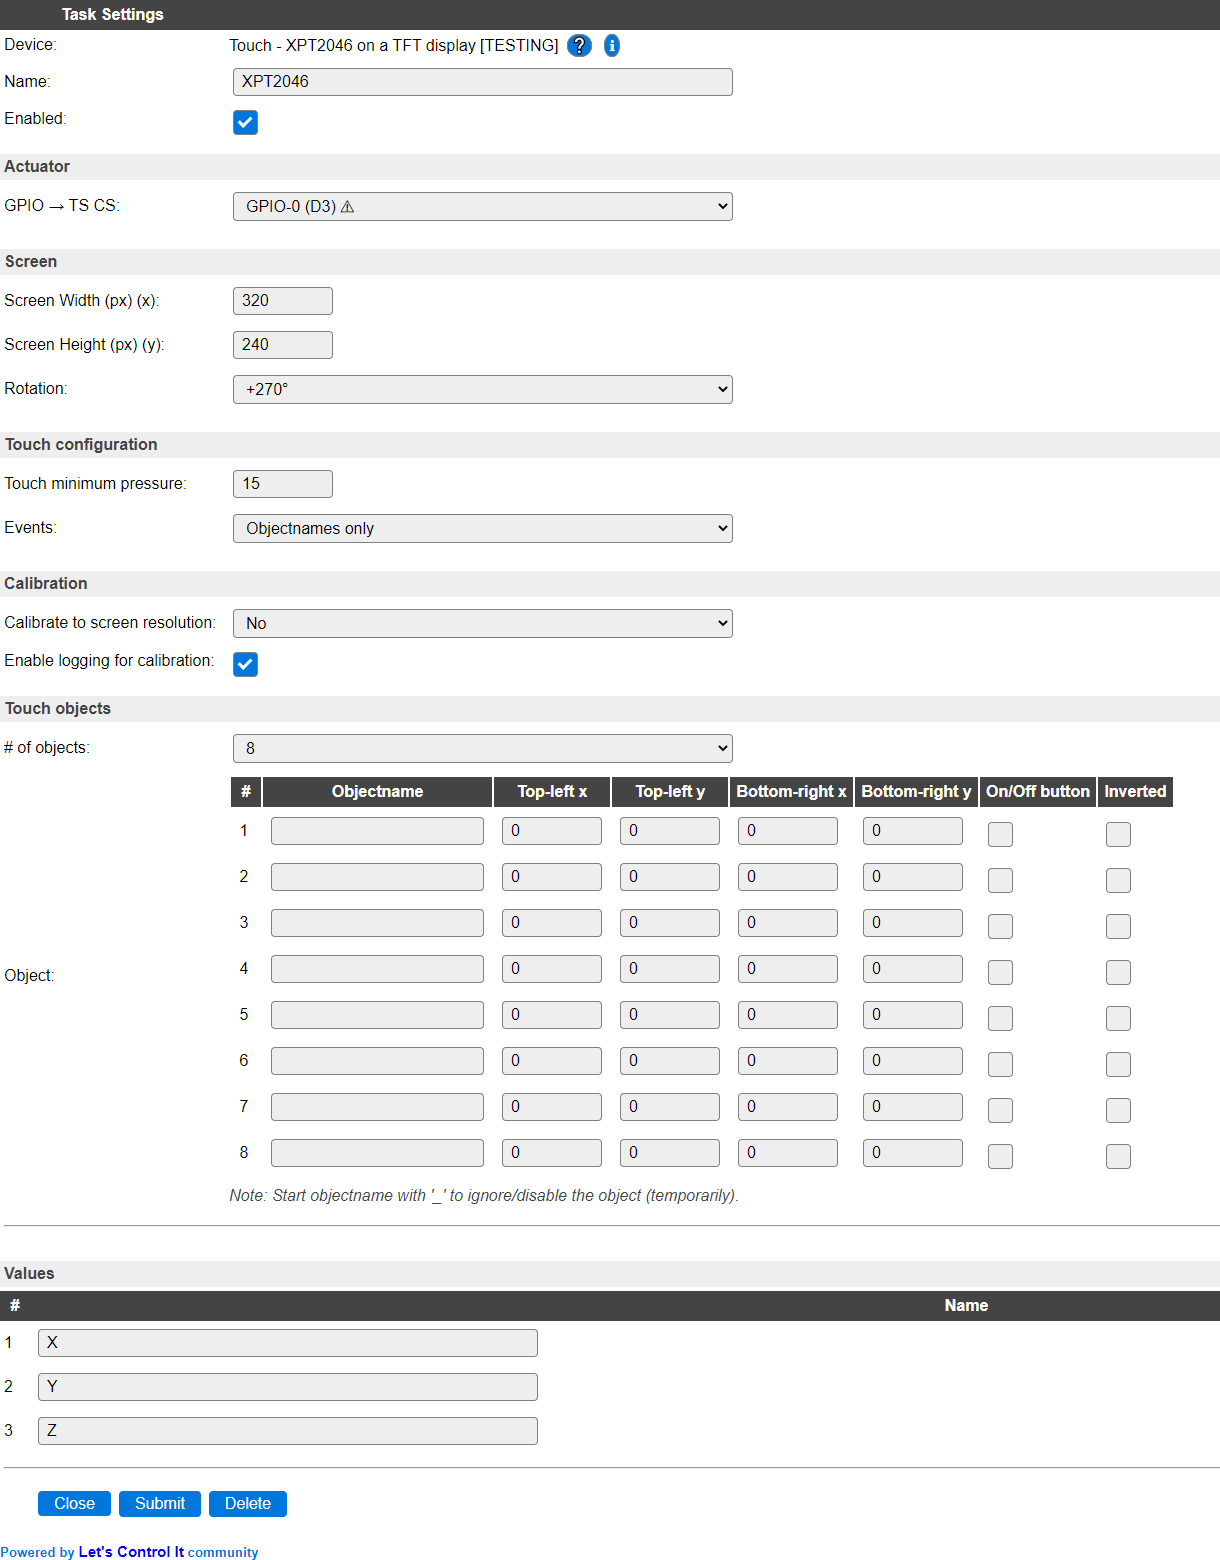
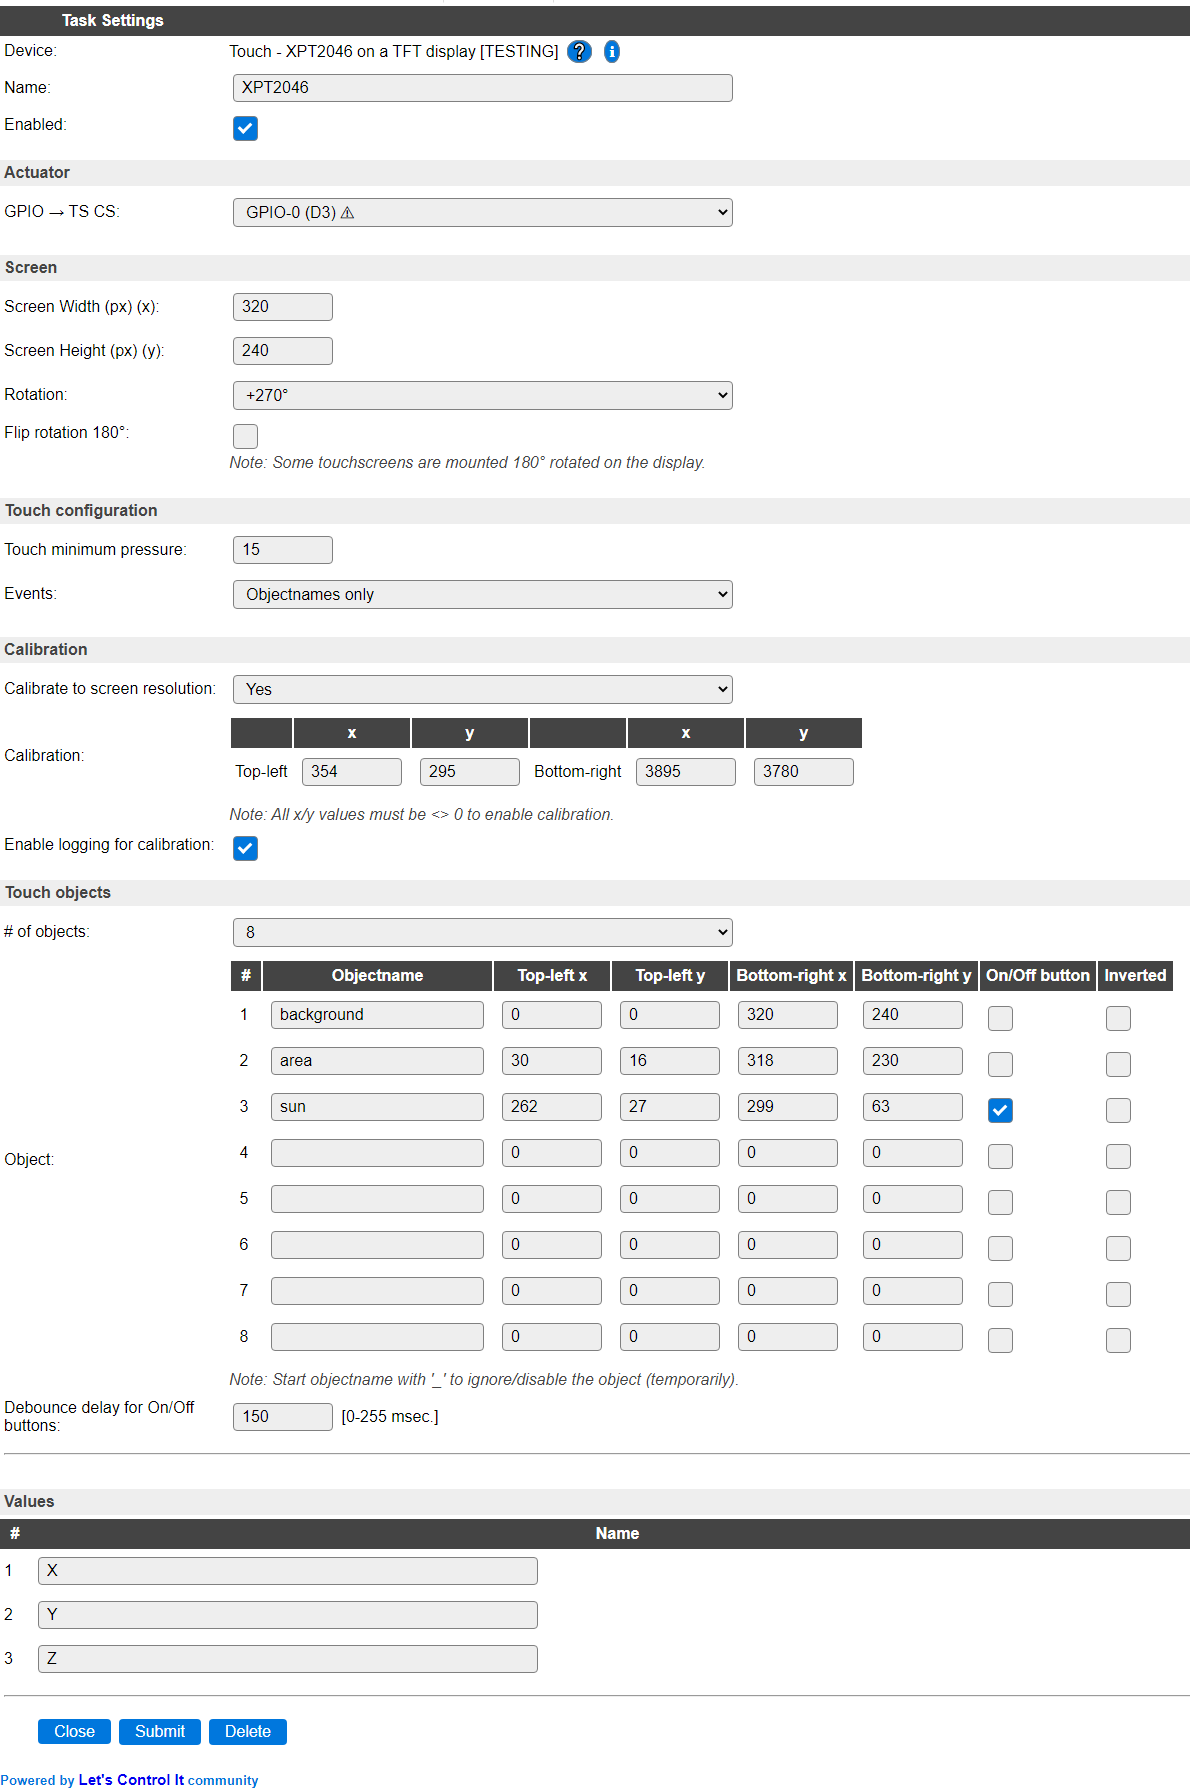
[P099] Improve string allocation, add options, source formatting - Source formatting and String allocation using reserve() for longer strings - Add option and command for flipping the rotation setting - Improved rotation setting to conform to ILI9341 setting - Add option for setting the debounce del

Changed region(s): [[0.0, 0.0, 1.0, 1.0], [0.0, 0.6154, 0.0311, 0.6769]]

diff --git a/src/src/PluginStructs/P099_data_struct.cpp b/src/src/PluginStructs/P099_data_struct.cpp
@@ -34,28 +34,31 @@ void P099_data_struct::reset() {
  * Initialize data and set up the touchscreen.
  */
 bool P099_data_struct::init(taskIndex_t taskIndex,
-                            uint8_t     _cs,
-                            uint8_t     _rotation,
-                            uint8_t     _z_treshold,
-                            bool        _send_xy,
-                            bool        _send_z,
-                            bool        _useCalibration,
-                            uint16_t    _ts_x_res,
-                            uint16_t    _ts_y_res) {
+                            uint8_t     cs,
+                            uint8_t     rotation,
+                            bool        flipped,
+                            uint8_t     z_treshold,
+                            bool        send_xy,
+                            bool        send_z,
+                            bool        useCalibration,
+                            uint16_t    ts_x_res,
+                            uint16_t    ts_y_res) {
   reset();
 
-  address_ts_cs  = _cs;
-  z_treshold     = _z_treshold;
-  rotation       = _rotation;
-  send_xy        = _send_xy;
-  send_z         = _send_z;
-  useCalibration = _useCalibration;
-  ts_x_res       = _ts_x_res;
-  ts_y_res       = _ts_y_res;
+  _address_ts_cs  = cs;
+  _z_treshold     = z_treshold;
+  _rotation       = rotation;
+  _flipped        = flipped;
+  _send_xy        = send_xy;
+  _send_z         = send_z;
+  _useCalibration = useCalibration;
+  _ts_x_res       = ts_x_res;
+  _ts_y_res       = ts_y_res;
 
-  touchscreen = new (std::nothrow) XPT2046_Touchscreen(address_ts_cs);
+  touchscreen = new (std::nothrow) XPT2046_Touchscreen(_address_ts_cs);
   if (touchscreen != nullptr) {
-    touchscreen->setRotation(rotation);
+    touchscreen->setRotation(_rotation);
+    touchscreen->setRotationFlipped(_flipped);
     touchscreen->begin();
     loadTouchObjects(taskIndex);
 #ifdef PLUGIN_099_DEBUG
@@ -130,10 +133,24 @@ void P099_data_struct::setRotation(uint8_t n) {
 }
 
 /**
+ * Only set rotationFlipped if the touchscreen is initialized.
+ */
+void P099_data_struct::setRotationFlipped(bool flipped) {
+  if (isInitialized()) {
+    touchscreen->setRotationFlipped(flipped);
+#ifdef PLUGIN_099_DEBUG
+    String log = F("P099 DEBUG RotationFlipped set: ");
+    log += flipped;
+    addLog(LOG_LEVEL_INFO, log);
+#endif // PLUGIN_099_DEBUG
+  }
+}
+
+/**
  * Determine if calibration is enabled and usable.
  */
 bool P099_data_struct::isCalibrationActive() {
-  return    useCalibration
+  return    _useCalibration
          && StoredSettings.Calibration.top_left.x > 0
          && StoredSettings.Calibration.top_left.y > 0
          && StoredSettings.Calibration.bottom_right.x > 0
@@ -252,7 +269,7 @@ void P099_data_struct::scaleRawToCalibrated(uint16_t &x, uint16_t &y) {
       if (_x > StoredSettings.Calibration.bottom_right.x) {
         _x = StoredSettings.Calibration.bottom_right.x;
       }
-      float x_fact = (StoredSettings.Calibration.bottom_right.x - StoredSettings.Calibration.top_left.x) / ts_x_res;
+      float x_fact = (StoredSettings.Calibration.bottom_right.x - StoredSettings.Calibration.top_left.x) / _ts_x_res;
       x = int((_x * 1.0f) / x_fact);
     }
     uint16_t _y = y - StoredSettings.Calibration.top_left.y;
@@ -262,7 +279,7 @@ void P099_data_struct::scaleRawToCalibrated(uint16_t &x, uint16_t &y) {
       if (_y > StoredSettings.Calibration.bottom_right.y) {
         _y = StoredSettings.Calibration.bottom_right.y;
       }
-      float y_fact = (StoredSettings.Calibration.bottom_right.y - StoredSettings.Calibration.top_left.y) / ts_y_res;
+      float y_fact = (StoredSettings.Calibration.bottom_right.y - StoredSettings.Calibration.top_left.y) / _ts_y_res;
       y = int((_y * 1.0f) / y_fact);
     }
   }

diff --git a/src/src/PluginStructs/P099_data_struct.h b/src/src/PluginStructs/P099_data_struct.h
@@ -31,19 +31,21 @@ struct P099_data_struct : public PluginTaskData_base
 
   void      reset();
   bool init(taskIndex_t taskIndex,
-            uint8_t  _cs,
-            uint8_t  _rotation,
-            uint8_t  _z_treshold,
-            bool     _send_xy,
-            bool     _send_z,
-            bool     _useCalibration,
-            uint16_t _ts_x_res,
-            uint16_t _ts_y_res);
+            uint8_t     cs,
+            uint8_t     rotation,
+            bool        flipped,
+            uint8_t     z_treshold,
+            bool        send_xy,
+            bool        send_z,
+            bool        useCalibration,
+            uint16_t    ts_x_res,
+            uint16_t    ts_y_res);
   bool isInitialized() const;
   void loadTouchObjects(taskIndex_t taskIndex);
   bool touched();
 	void readData(uint16_t *x, uint16_t *y, uint8_t *z);
   void setRotation(uint8_t n);
+  void setRotationFlipped(bool _flipped);
   bool isCalibrationActive();
   bool isValidAndTouchedTouchObject(uint16_t x, uint16_t y, String &selectedObjectName, int &selectedObjectIndex, uint8_t checkObjectCount);
   bool setTouchObjectState(String touchObject, bool state, uint8_t checkObjectCount);
@@ -51,14 +53,15 @@ struct P099_data_struct : public PluginTaskData_base
 
   // This is initialized by calling init()
   XPT2046_Touchscreen *touchscreen;
-  uint8_t  address_ts_cs;
-  uint8_t  rotation;
-  uint8_t  z_treshold;
-  bool     send_xy;
-  bool     send_z;
-  bool     useCalibration;
-  uint16_t ts_x_res;
-  uint16_t ts_y_res;
+  uint8_t  _address_ts_cs;
+  uint8_t  _rotation;
+  bool     _flipped;
+  uint8_t  _z_treshold;
+  bool     _send_xy;
+  bool     _send_z;
+  bool     _useCalibration;
+  uint16_t _ts_x_res;
+  uint16_t _ts_y_res;
 
   // This is filled during checking of a touchobject
   uint32_t SurfaceAreas[P099_MaxObjectCount];

diff --git a/lib/XPT2046_Touchscreen/XPT2046_Touchscreen.cpp b/lib/XPT2046_Touchscreen/XPT2046_Touchscreen.cpp
@@ -147,22 +147,42 @@ void XPT2046_Touchscreen::update()
 	//Serial.println();
 	if (z >= Z_THRESHOLD) {
 		msraw = now;	// good read completed, set wait
-		switch (rotation) {
-		  case 0:
-			xraw = 4095 - y;
-			yraw = x;
-			break;
-		  case 1:
-			xraw = x;
-			yraw = y;
-			break;
-		  case 2:
-			xraw = y;
-			yraw = 4095 - x;
-			break;
-		  default: // 3
-			xraw = 4095 - x;
-			yraw = 4095 - y;
+		if (flipped) {
+			switch (rotation) { // Original PaulStoffregen version
+			case 0:
+				xraw = 4095 - y;
+				yraw = x;
+				break;
+			case 1:
+				xraw = x;
+				yraw = y;
+				break;
+			case 2:
+				xraw = y;
+				yraw = 4095 - x;
+				break;
+			default: // 3
+				xraw = 4095 - x;
+				yraw = 4095 - y;
+			}
+		} else {
+			switch (rotation) {
+			case 0:
+				xraw = y;
+				yraw = 4095 - x;
+				break;
+			case 1:
+				xraw = 4095 - x;
+				yraw = 4095 - y;
+				break;
+			case 2:
+				xraw = 4095 - y;
+				yraw = x;
+				break;
+			default: // 3
+				xraw = x;
+				yraw = y;
+			}
 		}
 	}
 }

diff --git a/lib/XPT2046_Touchscreen/XPT2046_Touchscreen.h b/lib/XPT2046_Touchscreen/XPT2046_Touchscreen.h
@@ -51,14 +51,16 @@ public:
 	bool bufferEmpty();
 	uint8_t bufferSize() { return 1; }
 	void setRotation(uint8_t n) { rotation = n % 4; }
+	void setRotationFlipped(bool f) { flipped = f; }
 // protected:
 	volatile bool isrWake=true;
 
 private:
 	void update();
-	uint8_t csPin, tirqPin, rotation=1;
-	int16_t xraw=0, yraw=0, zraw=0;
-	uint32_t msraw=0x80000000;
+	uint8_t  csPin, tirqPin, rotation = 1;
+	int16_t  xraw = 0, yraw = 0, zraw = 0;
+	uint32_t msraw = 0x80000000;
+	bool     flipped = false;
 };
 
 #ifndef ISR_PREFIX

diff --git a/docs/source/Plugin/P099.rst b/docs/source/Plugin/P099.rst
@@ -41,7 +41,7 @@ The only connection, besides the standard SPI signals ``MISO``, ``MOSI`` and ``C
 Screen
 ~~~~~~
 
-To allow scaling the touch coordinates to screen coordinates, the screen resolution and (touchscreen) rotation need to be configured, as the 0,0 coordinates of the screen and touchscreen should match, for mapping a touch coordinate to a screen coordinate.
+To allow scaling the touch coordinates to screen coordinates, the screen resolution and (touchscreen) rotation need to be configured, as the 0,0 coordinates of the screen and touchscreen should match, for mapping a touch coordinate to a screen coordinate. An option to flip the rotation by 180 degrees is available to be able to set the rotation to the same value as the ILI9341 TFT screen plugin.
 
 Touch configuration
 ~~~~~~~~~~~~~~~~~~~~
@@ -79,6 +79,8 @@ When the name of the touchobject starts with '_' (underscore), that objectname i
 Per touchobject, checkboxes are available to configure that object as an On/Off button, and optionally invert the state. When the On/Off button option is checked, the event fired by the object has its On/Off state as an argument, just like a switch does. So in that case it fires ``XPT2046#button`` with the state (0 or 1) as the ``%eventvalue%``. Any X, Y or Z values can be used by reading ``[XPT2046#X]`` etc.
 
 Object names do not have to be unique, though they should not be the same as the Values defined in the Device settings. When defining multiple touchobjects with the same name and options (On/Off button and Inverted), but different touch coordinates, they will fire the same event for different touch coordinates. Also, when using the ``touch,enable,<objectname>`` and ``touch,disable,<objectname>`` commands, all objects with that name will be enabled/disabled.
+
+When configuring touchobjects as On/Off button, the debounce delay can be configured, to avoid generating multiple On/Off events when touching the screen. Default 150 msec. proved to be working fine during testing, but for a somewhat quicker response the value can be decreased.
 
 How to calibrate
 ~~~~~~~~~~~~~~~~
